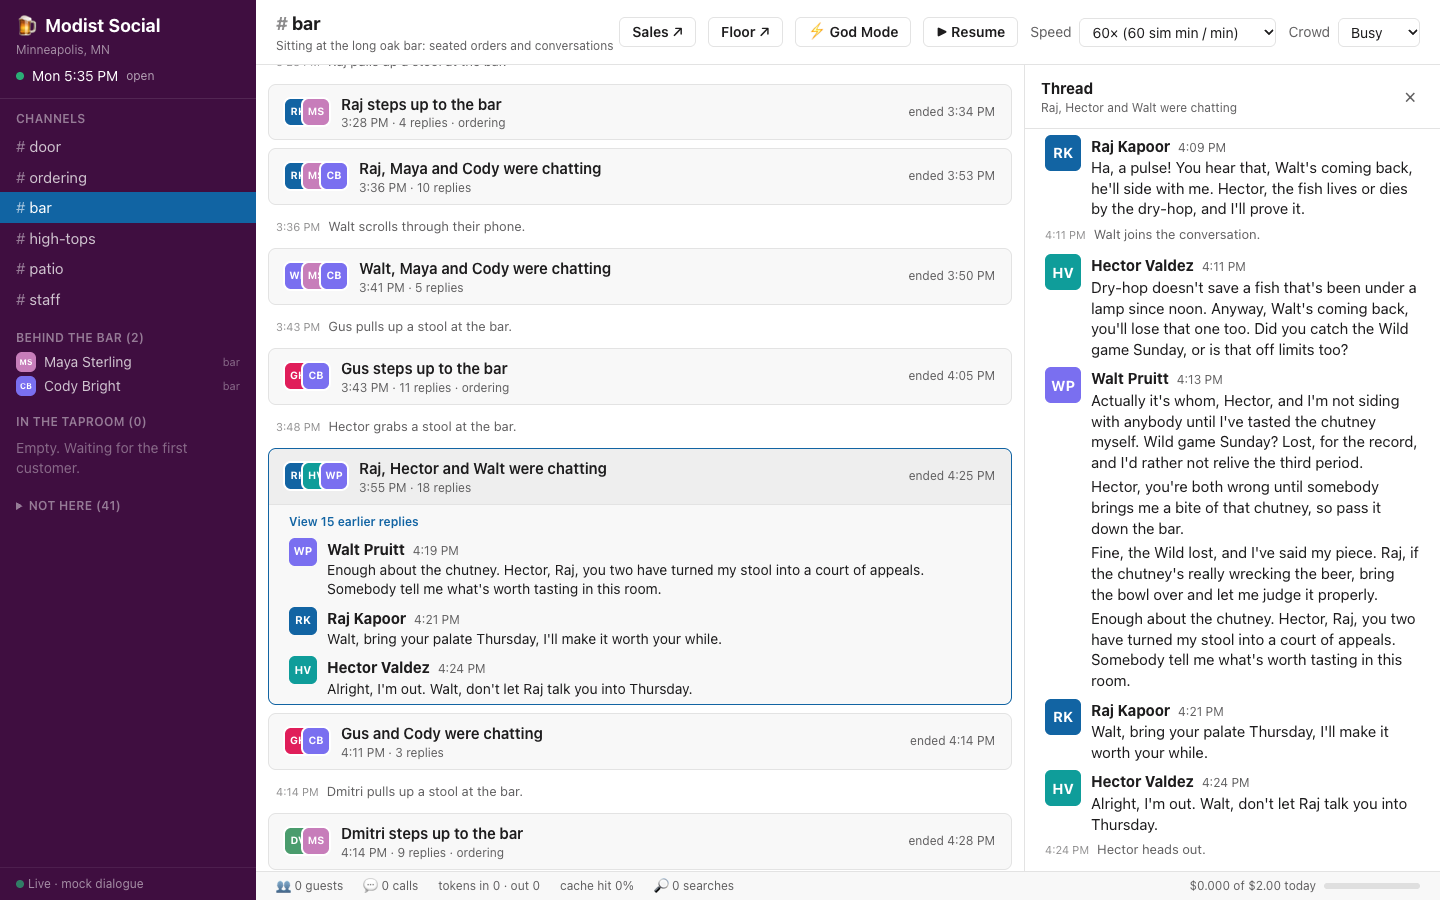
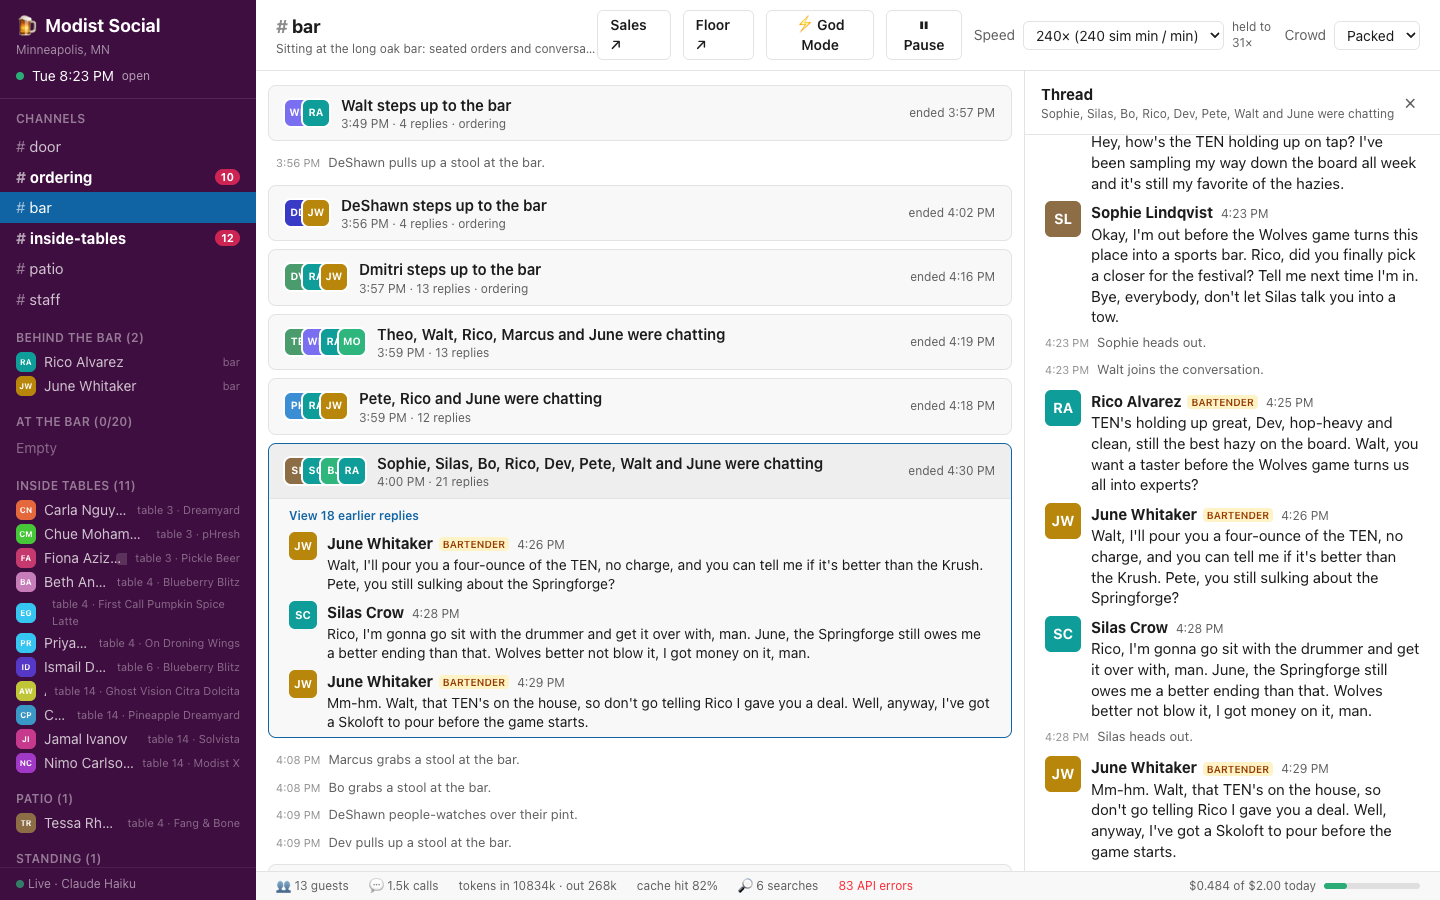
Refresh README screenshots for the current UI
Claude-Session: https://claude.ai/code/session_01YVBFqkq9KsBAZjhXRYSmgy

diff --git a/README.md b/README.md
@@ -68,7 +68,7 @@ During a visit each person carries a few moving numbers (`backend/app/sim/human.
 - **Social battery** drains as they talk (faster for the reserved) and recovers when they are left alone.
 - **Needs** such as the restroom, a phone call, some air, or a bite from the food truck.
 
-These change behaviour. They decide who joins or starts a chat, who speaks next, how fast people reply, and who escalates an argument. A tired or irritable person, or one with a need, *excuses themselves* from a chat and stays in the taproom (you can see Walt do it in the thread above). Solo guests scroll their phone or watch the game and turn down invitations. Each line also carries a private thought (shown in the profile, never said aloud) and a mood tag that feeds back into their state.
+These change behaviour. They decide who joins or starts a chat, who speaks next, how fast people reply, and who escalates an argument. A tired or irritable person, or one with a need, *excuses themselves* from a chat and stays in the taproom (you can see Sophie and Silas do it in the thread above). Solo guests scroll their phone or watch the game and turn down invitations. Each line also carries a private thought (shown in the profile, never said aloud) and a mood tag that feeds back into their state.
 
 ### How they sound
 Each turn is rolled as a quick reaction, a normal line, or a short story, depending on style, buzz, energy and mood. Now and then there is a human slip: mishearing, a distracted answer, a joke that doesn't land, a trailing off. The style rules in `backend/app/seed/world.md` list the tells of an assistant to avoid ("Great point", a question at the end of every line, repeating back what was just said, neat summing-up) and give good and bad examples.
